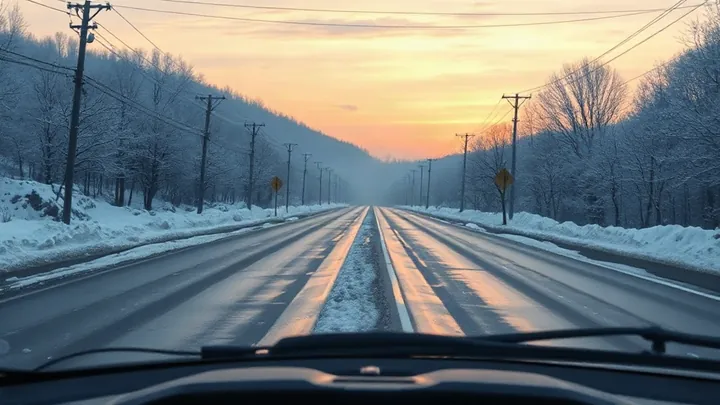
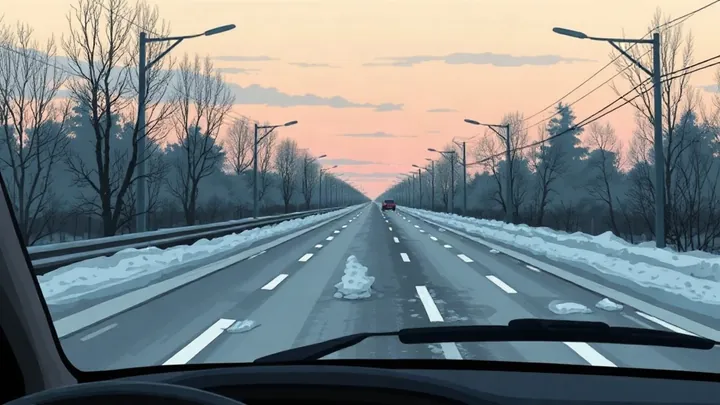
KYT実写風21枚をイラスト調に再生成・マーカー改善・UI微修正
- KYT: 実写寄りだった21場面をイラスト強化プロンプトで再生成
- KYT: マーカーを小型・半透明化し「👁イラストを見る」切替を追加
- オンライン: 合言葉入力欄にminWidth:0を付け「入る」のはみ出しを修正
- ホーム: クレジット3行の行間を詰めた

diff --git a/src/app/kyt.tsx b/src/app/kyt.tsx
@@ -160,6 +160,8 @@ export default function KytScreen() {
   const [rushTime, setRushTime] = useState(60);
   const [scenes, setScenes] = useState<KytScene[]>([]);
   const [index, setIndex] = useState(0);
+  /** マーカーを一時的に隠してイラスト全体を確認する */
+  const [hideSpots, setHideSpots] = useState(false);
   const [correctCount, setCorrectCount] = useState(0);
   const [picked, setPicked] = useState<number | null>(null);
   const [runMastered, setRunMastered] = useState<string[]>([]);
@@ -312,7 +314,7 @@ export default function KytScreen() {
                 style={StyleSheet.absoluteFill}
                 contentFit="cover"
               />
-              {scene.spots.map((sp, i) => (
+              {!hideSpots && scene.spots.map((sp, i) => (
                 <Pressable
                   key={`s${i}`}
                   style={[styles.spot, { left: `${sp.x}%`, top: `${sp.y}%` }]}
@@ -330,6 +332,17 @@ export default function KytScreen() {
                   )}
                 </Pressable>
               ))}
+              <Pressable
+                style={styles.eyeChip}
+                onPress={() => {
+                  haptic("light");
+                  setHideSpots((v) => !v);
+                }}
+              >
+                <Text style={styles.eyeChipText} allowFontScaling={false}>
+                  {hideSpots ? "📍 マーカーを表示" : "👁 イラストを見る"}
+                </Text>
+              </Pressable>
             </View>
 
             {picked === null ? (
@@ -516,15 +529,25 @@ const styles = StyleSheet.create({
   rainMark: { position: "absolute", top: "20%", left: "18%", fontSize: 18, opacity: 0.7 },
   spot: { position: "absolute", alignItems: "center" },
   spotBadge: {
-    backgroundColor: "#ffffffd9",
+    backgroundColor: "#ffffff99",
     borderRadius: 999,
     borderWidth: 2,
-    borderColor: "#e8590c",
-    paddingHorizontal: 6,
-    paddingVertical: 3,
+    borderColor: "#e8590cdd",
+    paddingHorizontal: 4,
+    paddingVertical: 2,
   },
-  spotEmoji: { fontSize: 34 },
+  spotEmoji: { fontSize: 24 },
   spotMark: { position: "absolute", top: -18, fontSize: 22 },
+  eyeChip: {
+    position: "absolute",
+    right: 8,
+    bottom: 8,
+    backgroundColor: "#000000a0",
+    borderRadius: 999,
+    paddingHorizontal: 10,
+    paddingVertical: 5,
+  },
+  eyeChipText: { color: "#fff", fontSize: 12, fontWeight: "800" },
   labelList: { gap: 8 },
   labelButton: {
     borderWidth: 1.5,

diff --git a/src/app/index.tsx b/src/app/index.tsx
@@ -1662,12 +1662,11 @@ const styles = StyleSheet.create({
   matchupSide: { fontSize: 12, fontWeight: "600", color: colors.textMuted, flexShrink: 1 },
   matchupVs: { fontSize: 11, fontWeight: "900", color: colors.accent },
   footer: {
-    marginTop: spacing.lg,
     textAlign: "center",
     color: colors.textMuted,
     fontSize: 10,
     fontWeight: "700",
   },
-  footerBox: { alignItems: "center", gap: 2, paddingBottom: 8 },
+  footerBox: { alignItems: "center", gap: 2, marginTop: spacing.lg, paddingBottom: 8 },
   footerMain: { fontSize: 12, fontWeight: "800", color: colors.textMuted, textAlign: "center" },
 });

diff --git a/src/app/online.tsx b/src/app/online.tsx
@@ -951,7 +951,9 @@ const styles = StyleSheet.create({
   bigButtonText: { color: "#fff", fontSize: 17, fontWeight: "900" },
   bigButtonSub: { color: "#ffffffcc", fontSize: 12, fontWeight: "700" },
   joinRow: { flexDirection: "row", gap: spacing.sm, alignItems: "center" },
-  joinInput: { flex: 1, letterSpacing: 4, fontWeight: "800" },
+  // minWidth:0 が無いとWebでTextInputの固有幅が優先され「入る」が画面外へはみ出す
+  joinInput: { flex: 1, minWidth: 0, letterSpacing: 4, fontWeight: "800" },
+
   joinButton: {
     backgroundColor: colors.accent,
     borderRadius: radius.md,
